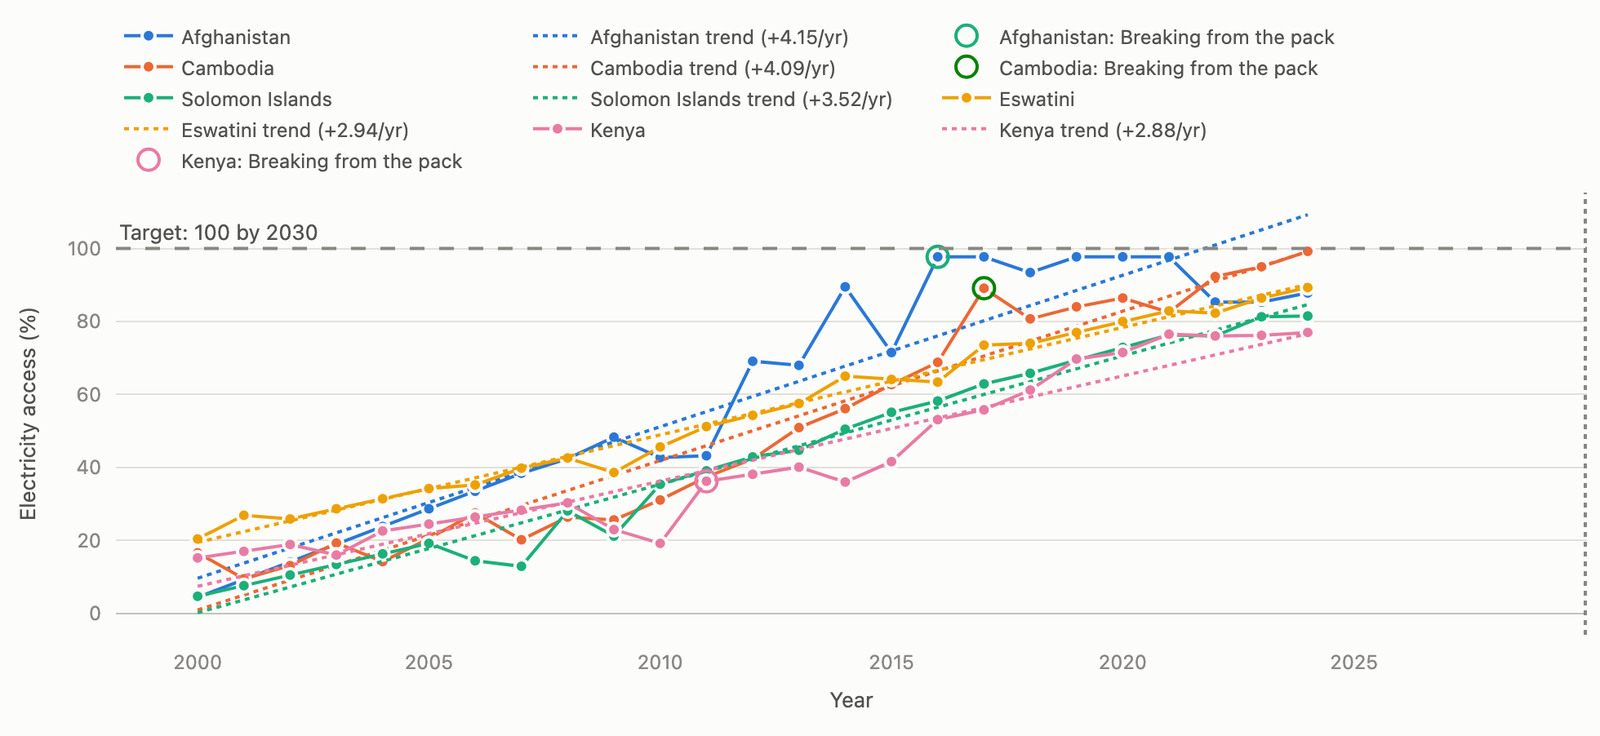
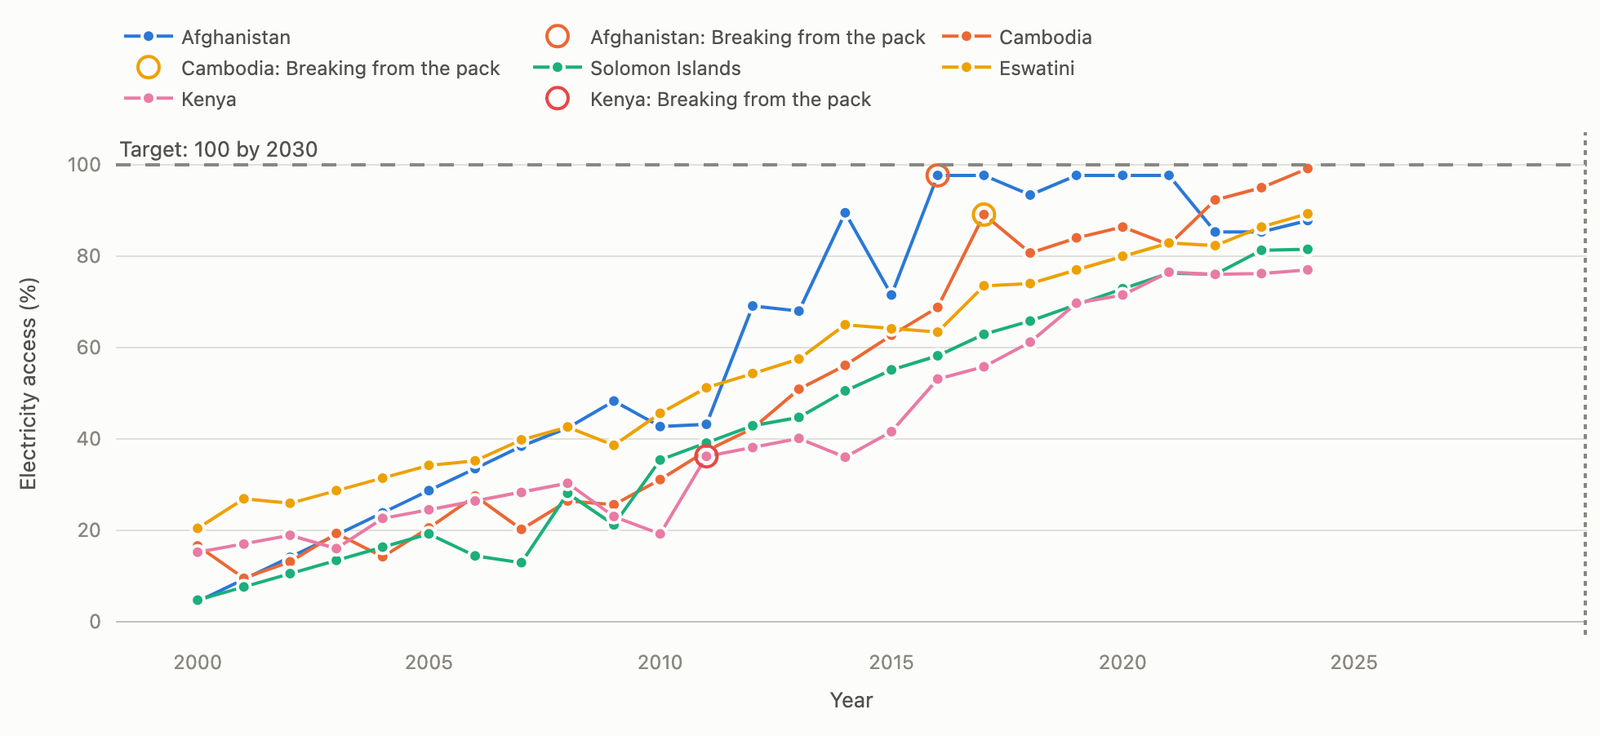
Use the VeriMap trends chart without fitted trend lines

diff --git a/work.html b/work.html
@@ -146,7 +146,7 @@
               <div class="sheet-doc-body">
                 <p><em>UN x Google Data Commons Builders Day, 2026.</em> A reusable recipe for retrieving, validating, and joining SDG indicators across UN agencies, with a dashboard on top.</p>
                 <figure class="sheet-doc-img">
-                  <img src="assets/verimap-trends.png" alt="VeriMap trends chart of electricity access from 2000 to 2024 for Afghanistan, Cambodia, Solomon Islands, Eswatini and Kenya, with fitted trend lines, the 2030 target of 100 percent, and flagged breakout years.">
+                  <img src="assets/verimap-trends.png" alt="VeriMap trends chart of electricity access from 2000 to 2024 for Afghanistan, Cambodia, Solomon Islands, Eswatini and Kenya, with the 2030 target of 100 percent and flagged breakout years.">
                 </figure>
                 <p><strong>Tags:</strong> Python · Streamlit · GIS · Data Validation</p>
               </div>
